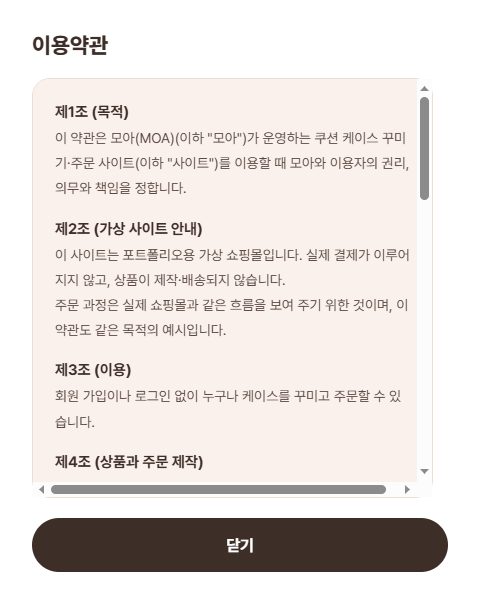
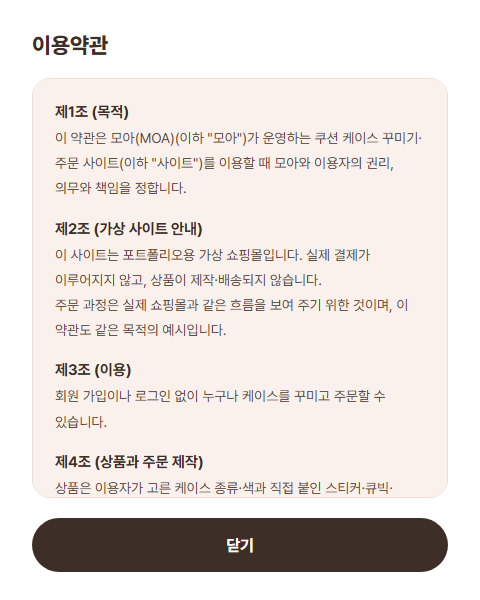
Fix periods, spacing and awkward line breaks in site copy

diff --git a/docs/html/m06-help.html b/docs/html/m06-help.html
@@ -16,7 +16,7 @@
 @font-face{font-family:'Pretendard';src:url('./assets/e1e4e3d781524e0be24d782bd335a8d8.woff2') format('woff2');font-weight:600;font-style:normal;font-display:swap}
 @font-face{font-family:'Pretendard';src:url('./assets/219eaf59f0b4418b78550957d4062202.woff2') format('woff2');font-weight:700;font-style:normal;font-display:swap}
 @font-face{font-family:'Pretendard';src:url('./assets/a59cd8597029c48d8caa4a7b7189ae28.woff2') format('woff2');font-weight:800;font-style:normal;font-display:swap}
-body{margin:0}
+body{margin:0;word-break:keep-all;overflow-wrap:break-word}
 a{color:#3D2E28}a:hover{color:#C4513F}
 </style>
 </helmet>
@@ -29,11 +29,11 @@ a{color:#3D2E28}a:hover{color:#C4513F}
   <div tabindex="0" style="flex: 1; min-height: 0; overflow-y: auto; display: flex; flex-direction: column; gap: 12px">
     <div style="background: #FBF1EC; border: 1px solid #EADFD5; border-radius: 18px; padding: 18px 20px; display: flex; flex-direction: column; gap: 6px">
       <strong style="font-size: 15px">스티커 붙이기</strong>
-      <span style="font-size: 14px; line-height: 1.7; color: #5A4A42">아래 목록에서 스티커를 눌러 가운데에 붙이거나, 원하는 자리로 끌어다 놓아요</span>
+      <span style="font-size: 14px; line-height: 1.7; color: #5A4A42">아래 목록에서 스티커를 눌러 가운데에 붙이거나, 원하는 자리로 끌어다 놓아요.</span>
     </div>
     <div style="background: #FBF1EC; border: 1px solid #EADFD5; border-radius: 18px; padding: 18px 20px; display: flex; flex-direction: column; gap: 6px">
       <strong style="font-size: 15px">이동·크기·회전·삭제</strong>
-      <span style="font-size: 14px; line-height: 1.7; color: #5A4A42">스티커를 끌어서 옮기고, 모서리 점으로 크기를, 아래 동그라미로 방향을 바꿔요. 지우려면 X를 눌러요</span>
+      <span style="font-size: 14px; line-height: 1.7; color: #5A4A42">스티커를 끌어서 옮기고, 모서리 점으로 크기를, 아래 동그라미로 방향을 바꿔요. 지우려면 X를 눌러요.</span>
     </div>
   </div>
   <!-- M06-S02 버튼 -->

diff --git a/docs/html/p02-detail.html b/docs/html/p02-detail.html
@@ -16,7 +16,7 @@
 @font-face{font-family:'Pretendard';src:url('./assets/e1e4e3d781524e0be24d782bd335a8d8.woff2') format('woff2');font-weight:600;font-style:normal;font-display:swap}
 @font-face{font-family:'Pretendard';src:url('./assets/219eaf59f0b4418b78550957d4062202.woff2') format('woff2');font-weight:700;font-style:normal;font-display:swap}
 @font-face{font-family:'Pretendard';src:url('./assets/a59cd8597029c48d8caa4a7b7189ae28.woff2') format('woff2');font-weight:800;font-style:normal;font-display:swap}
-body{margin:0;background:#FBF6F0}
+body{margin:0;word-break:keep-all;overflow-wrap:break-word;background:#FBF6F0}
 a{color:#3D2E28}a:hover{color:#C4513F}
 </style>
 </helmet>
@@ -53,7 +53,7 @@ a{color:#3D2E28}a:hover{color:#C4513F}
           <span style="padding: 6px 14px; border-radius: 999px; background: #F7E6DF; color: #75503F; font-size: 14px; font-weight: 600">15g 쿠션 리필 호환</span>
         </div>
         <span style="font-size: 30px; font-weight: 800; color: #C4513F">19,000원</span>
-        <p style="margin: 0; font-size: 15px; line-height: 1.6; color: #3D2E28">스티커·큐빅은 종류 상관없이 5개까지 추가 요금 없어요 <span style="color: #6F5D54">(6개째부터 1개당 +500원 · 각인 1개당 +1,500원, 최대 10글자)</span></p>
+        <p style="margin: 0; font-size: 15px; line-height: 1.6; color: #3D2E28">스티커·큐빅은 종류 상관없이 5개까지 추가 요금 없어요 <span style="display: block; color: #6F5D54">(6개째부터 1개당 +500원 · 각인 1개당 +1,500원, 최대 10글자)</span></p>
         <div style="height: 1px; background: #EADFD5"></div>
         <dl style="margin: 0; display: grid; grid-template-columns: 72px 1fr; row-gap: 12px; font-size: 15px; line-height: 1.6">
           <dt style="color: #6F5D54">소재</dt><dd style="margin: 0">케이스: PC·ABS 수지 · 큐빅: 아크릴</dd>

diff --git a/src/pages/CustomizePage.jsx b/src/pages/CustomizePage.jsx
@@ -586,7 +586,7 @@ export default function CustomizePage() {
     const opening = panel !== key;
     setPanelSwitched(opening && panel !== null); // 터치 기기: 도구를 바꿀 때는 패널을 다시 올리지 않음 (CSS .is-switch)
     setPanel(opening ? key : null);
-    // 스티커 패널을 처음 열면 "드래그해주세요" 안내를 잠깐 보여줌
+    // 스티커 패널을 처음 열면 "드래그해 주세요" 안내를 잠깐 보여줌
     if (opening && ['cubic', 'sticker'].includes(key) && !hintShownRef.current) {
       hintShownRef.current = true;
       setHint('show');
@@ -723,8 +723,8 @@ export default function CustomizePage() {
             )}
           </div>
           <button type="button" className="btn btn-primary cz-done" onClick={complete} disabled={!canComplete}>
-            {/* 67: 장바구니 "수정하기"로 연 디자인이면 "수정완료" (모든 기기, 승인된 예외) */}
-            {design.editingId ? '수정완료' : '완료'}
+            {/* 67: 장바구니 "수정하기"로 연 디자인이면 "수정 완료" (모든 기기, 승인된 예외) */}
+            {design.editingId ? '수정 완료' : '완료'}
           </button>
         </div>
       </header>
@@ -818,7 +818,7 @@ export default function CustomizePage() {
                 {hint !== 'hidden' && (
                   <div className={`cz-hint${hint === 'fade' ? ' is-fade' : ''}`}>
                     <IconHand size={18} />
-                    드래그해주세요
+                    드래그해 주세요
                     <span className="cz-hint-touch">눌러서 붙이고, 끌어서 옮겨요</span>
                   </div>
                 )}

diff --git a/docs/html/p03-customize.html b/docs/html/p03-customize.html
@@ -16,7 +16,7 @@
 @font-face{font-family:'Pretendard';src:url('./assets/e1e4e3d781524e0be24d782bd335a8d8.woff2') format('woff2');font-weight:600;font-style:normal;font-display:swap}
 @font-face{font-family:'Pretendard';src:url('./assets/219eaf59f0b4418b78550957d4062202.woff2') format('woff2');font-weight:700;font-style:normal;font-display:swap}
 @font-face{font-family:'Pretendard';src:url('./assets/a59cd8597029c48d8caa4a7b7189ae28.woff2') format('woff2');font-weight:800;font-style:normal;font-display:swap}
-body{margin:0;background:#FBF6F0}
+body{margin:0;word-break:keep-all;overflow-wrap:break-word;background:#FBF6F0}
 a{color:#3D2E28}a:hover{color:#C4513F}
 </style>
 </helmet>
@@ -74,7 +74,7 @@ a{color:#3D2E28}a:hover{color:#C4513F}
           <!-- 드래그 안내 -->
           <div style="position: absolute; top: 96px; left: 50%; transform: translateX(-50%); display: flex; align-items: center; gap: 8px; padding: 10px 16px; border-radius: 999px; background: rgba(61, 46, 40, 0.82); color: #FFFFFF; font-size: 14px; font-weight: 600; white-space: nowrap">
             <svg width="18" height="18" viewBox="0 0 24 24" fill="none" stroke="currentColor" stroke-width="1.8" stroke-linecap="round" stroke-linejoin="round" aria-hidden="true"><path d="M9 11V5a1.5 1.5 0 0 1 3 0v5"></path><path d="M12 10V4a1.5 1.5 0 0 1 3 0v6"></path><path d="M15 10.5V6a1.5 1.5 0 0 1 3 0v8a6 6 0 0 1-6 6h-1a6 6 0 0 1-5-2.7L3.4 13a1.5 1.5 0 0 1 2.4-1.8L9 14"></path></svg>
-            드래그해주세요
+            드래그해 주세요
           </div>
 
           <!-- 선택 상자 예시 (각인 선택 상태) -->

diff --git a/docs/html/p06-complete.html b/docs/html/p06-complete.html
@@ -16,7 +16,7 @@
 @font-face{font-family:'Pretendard';src:url('./assets/e1e4e3d781524e0be24d782bd335a8d8.woff2') format('woff2');font-weight:600;font-style:normal;font-display:swap}
 @font-face{font-family:'Pretendard';src:url('./assets/219eaf59f0b4418b78550957d4062202.woff2') format('woff2');font-weight:700;font-style:normal;font-display:swap}
 @font-face{font-family:'Pretendard';src:url('./assets/a59cd8597029c48d8caa4a7b7189ae28.woff2') format('woff2');font-weight:800;font-style:normal;font-display:swap}
-body{margin:0;background:#FBF6F0}
+body{margin:0;word-break:keep-all;overflow-wrap:break-word;background:#FBF6F0}
 a{color:#3D2E28}a:hover{color:#C4513F}
 </style>
 </helmet>
@@ -82,7 +82,7 @@ a{color:#3D2E28}a:hover{color:#C4513F}
     <section style="background: #F7E6DF; border-radius: 24px; padding: 28px 32px; display: flex; flex-direction: column; gap: 12px; font-size: 15px; line-height: 1.6">
       <h2 style="margin: 0 0 4px; font-size: 18px; font-weight: 800">배송·문의 안내</h2>
       <span>주문 확인 후 약 <span style="white-space: nowrap">5~7일 이내</span> 배송해 드려요.<br>(주말 및 공휴일 제외)</span>
-      <span>주문 내용은 입력한 연락처로 문자로 보내드려요.</span>
+      <span>주문 내용은 입력한 연락처로 문자로 보내 드려요.</span>
       <span>주문번호 또는 이름과 연락처로 고객센터에 문의해 주세요.</span>
     </section>
   </div>

diff --git a/src/components/Dialogs.jsx b/src/components/Dialogs.jsx
@@ -128,12 +128,12 @@ function ContentDialog({ title, children, onClose, sparkle, closing }) {
 // 28: 도움말 문구 — 마우스(데스크탑)와 손가락(휴대폰·태블릿)의 조작이 달라서 기기에 맞는 문구를 보여줌
 const HELP_TEXT = {
   mouse: {
-    add: '아래 목록에서 스티커를 눌러 가운데에 붙이거나, 원하는 자리로 끌어다 놓아요',
-    edit: '스티커를 끌어서 옮기고, 모서리 점으로 크기를, 아래 동그라미로 방향을 바꿔요. 지우려면 X를 눌러요',
+    add: '아래 목록에서 스티커를 눌러 가운데에 붙이거나, 원하는 자리로 끌어다 놓아요.',
+    edit: '스티커를 끌어서 옮기고, 모서리 점으로 크기를, 아래 동그라미로 방향을 바꿔요. 지우려면 X를 눌러요.',
   },
   touch: {
-    add: '아래 목록에서 스티커를 누르면 가운데에 붙어요. 목록은 옆으로 밀어서 더 볼 수 있어요',
-    edit: '스티커를 끌어서 옮기고, 두 손가락으로 벌리면 크기, 돌리면 방향이 바뀌어요. 지우려면 X를 눌러요',
+    add: '아래 목록에서 스티커를 누르면 가운데에 붙어요. 목록은 옆으로 밀어서 더 볼 수 있어요.',
+    edit: '스티커를 끌어서 옮기고, 두 손가락으로 벌리면 크기, 돌리면 방향이 바뀌어요. 지우려면 X를 눌러요.',
   },
 };
 

diff --git a/src/data/catalog.js b/src/data/catalog.js
@@ -216,7 +216,7 @@ const REVIEW_TEXTS = [
   '처음에는 디자인하는 게 어려울까 봐 걱정했는데 사용 방법이 간단해서 금방 완성했어요. 다음에는 다른 분위기로도 만들어보고 싶어요!',
   '색상부터 장식 위치까지 직접 선택할 수 있어서 좋았어요. 제가 원하는 느낌 그대로 완성할 수 있어서 정말 만족합니다.',
   '나만의 취향이 담긴 제품이라 더 애착이 가요. 매일 사용하는 제품을 직접 꾸밀 수 있다는 아이디어가 너무 마음에 들어요!',
-  '주문 전에 완성된 모습을 미리 볼 수 있어서 좋았어요. 실제로 받아보니 생각했던 것보다 예쁘고 정성스럽게 제작된 느낌이에요',
+  '주문 전에 완성된 모습을 미리 볼 수 있어서 좋았어요. 실제로 받아보니 생각했던 것보다 예쁘고 정성스럽게 제작된 느낌이에요.',
   '친구에게 선물하려고 주문했는데 정말 특별한 선물이 되었어요! 직접 디자인할 수 있다는 점이 가장 큰 매력인 것 같아요. 재구매 의사 있어요 ♡',
 ];
 

diff --git a/src/pages/CustomizePage.css b/src/pages/CustomizePage.css
@@ -738,14 +738,14 @@
   }
 }
 
-/* 43: 모바일 안내 문구 — 기존 "드래그해주세요"는 그대로 두고, 모바일용 문구를 따로 덧붙임. 데스크탑에서는 숨김 */
+/* 43: 모바일 안내 문구 — 기존 "드래그해 주세요"는 그대로 두고, 모바일용 문구를 따로 덧붙임. 데스크탑에서는 숨김 */
 .cz-hint-touch {
   display: none;
 }
 
 /* ===== 모바일 전용 (휴대폰·태블릿, 폭 1024px 이하 터치 기기) — 데스크탑(1025px 이상)·마우스 기기에는 적용되지 않음 ===== */
 @media (hover: none) and (pointer: coarse) and (max-width: 1024px) {
-  /* 43: "드래그해주세요" 대신 "눌러서 붙이고, 끌어서 옮겨요"가 보이게 */
+  /* 43: "드래그해 주세요" 대신 "눌러서 붙이고, 끌어서 옮겨요"가 보이게 */
   .cz-hint {
     font-size: 0;
     gap: 0;

diff --git a/docs/html/p01-main.html b/docs/html/p01-main.html
@@ -16,7 +16,7 @@
 @font-face{font-family:'Pretendard';src:url('./assets/e1e4e3d781524e0be24d782bd335a8d8.woff2') format('woff2');font-weight:600;font-style:normal;font-display:swap}
 @font-face{font-family:'Pretendard';src:url('./assets/219eaf59f0b4418b78550957d4062202.woff2') format('woff2');font-weight:700;font-style:normal;font-display:swap}
 @font-face{font-family:'Pretendard';src:url('./assets/a59cd8597029c48d8caa4a7b7189ae28.woff2') format('woff2');font-weight:800;font-style:normal;font-display:swap}
-body{margin:0;background:#FBF6F0}
+body{margin:0;word-break:keep-all;overflow-wrap:break-word;background:#FBF6F0}
 a{color:#3D2E28}a:hover{color:#C4513F}
 .case-deco{opacity:0;transition:opacity .3s ease}
 .case-card:hover .case-deco,.case-card:focus-visible .case-deco{opacity:1}

diff --git a/src/components/Layout.jsx b/src/components/Layout.jsx
@@ -170,7 +170,11 @@ export function Footer() {
         <div className="footer-cs">
           <span className="footer-cs-title">고객센터</span>
           <span className="footer-cs-phone">{COMPANY.phone}</span>
-          <span>운영 시간 {COMPANY.hours}</span>
+          {/* 좁은 화면에서 "주말·공휴일"이 중간에서 끊기지 않게 괄호 안은 한 덩어리로 (2026-11-23) */}
+          <span>
+            운영 시간 {COMPANY.hours.split(' (')[0]}{' '}
+            <span style={{ whiteSpace: 'nowrap' }}>({COMPANY.hours.split(' (')[1]}</span>
+          </span>
         </div>
         <nav aria-label="약관" className="footer-links">
           <button type="button" onClick={() => showContent('terms')}>

diff --git a/docs/html/p05-order.html b/docs/html/p05-order.html
@@ -16,7 +16,7 @@
 @font-face{font-family:'Pretendard';src:url('./assets/e1e4e3d781524e0be24d782bd335a8d8.woff2') format('woff2');font-weight:600;font-style:normal;font-display:swap}
 @font-face{font-family:'Pretendard';src:url('./assets/219eaf59f0b4418b78550957d4062202.woff2') format('woff2');font-weight:700;font-style:normal;font-display:swap}
 @font-face{font-family:'Pretendard';src:url('./assets/a59cd8597029c48d8caa4a7b7189ae28.woff2') format('woff2');font-weight:800;font-style:normal;font-display:swap}
-body{margin:0;background:#FBF6F0}
+body{margin:0;word-break:keep-all;overflow-wrap:break-word;background:#FBF6F0}
 a{color:#3D2E28}a:hover{color:#C4513F}
 input::placeholder{color:#A39385}
 </style>

diff --git a/docs/html/p04-confirm.html b/docs/html/p04-confirm.html
@@ -16,7 +16,7 @@
 @font-face{font-family:'Pretendard';src:url('./assets/e1e4e3d781524e0be24d782bd335a8d8.woff2') format('woff2');font-weight:600;font-style:normal;font-display:swap}
 @font-face{font-family:'Pretendard';src:url('./assets/219eaf59f0b4418b78550957d4062202.woff2') format('woff2');font-weight:700;font-style:normal;font-display:swap}
 @font-face{font-family:'Pretendard';src:url('./assets/a59cd8597029c48d8caa4a7b7189ae28.woff2') format('woff2');font-weight:800;font-style:normal;font-display:swap}
-body{margin:0;background:#FBF6F0}
+body{margin:0;word-break:keep-all;overflow-wrap:break-word;background:#FBF6F0}
 a{color:#3D2E28}a:hover{color:#C4513F}
 </style>
 </helmet>
